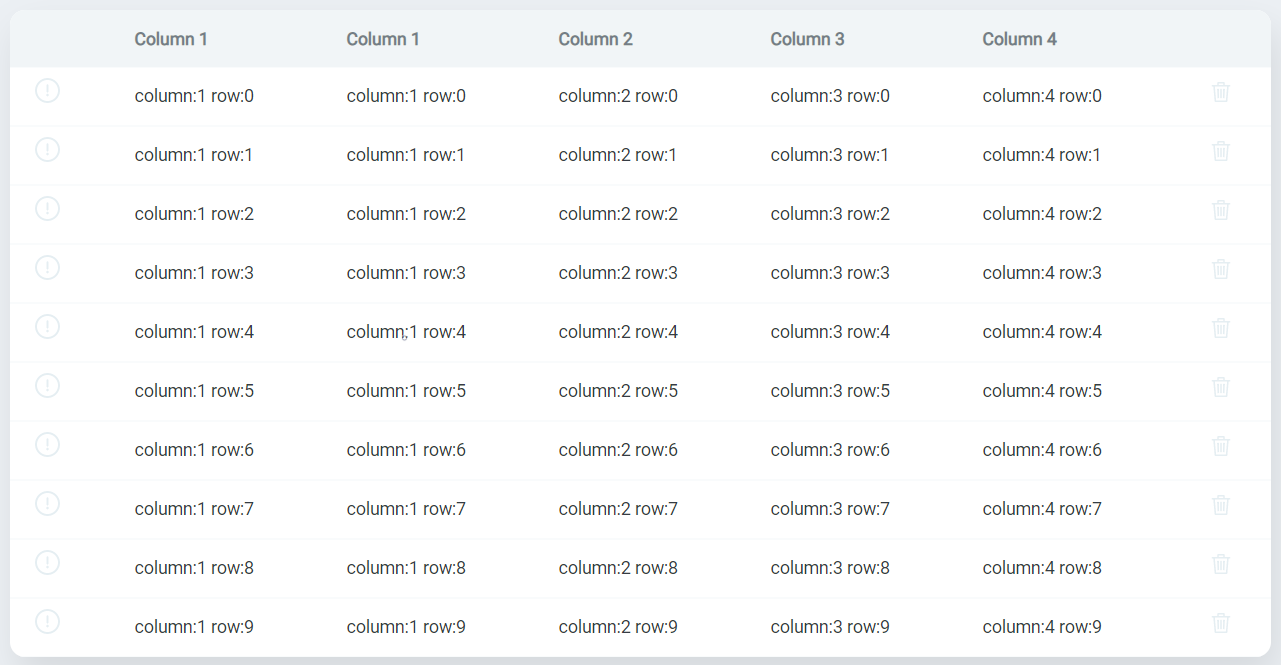
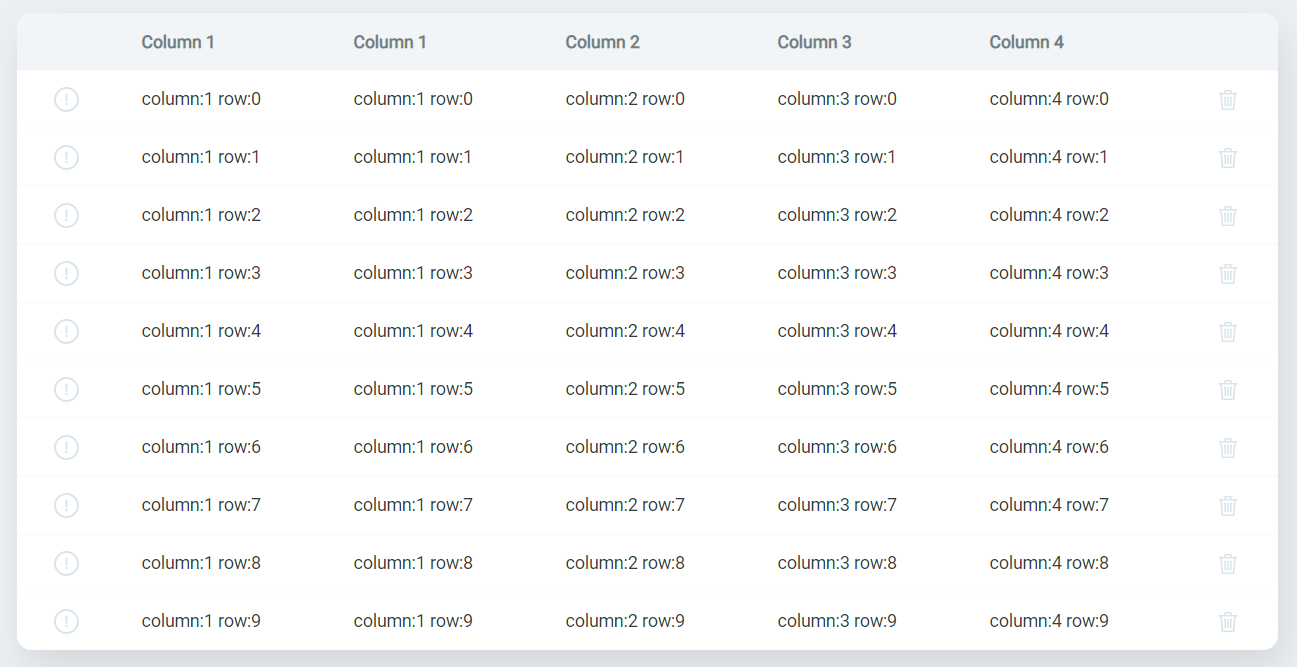
Update command-column styles and readme screenshot

diff --git a/src/Demos/CommandColumnDemo/CommandColumnDemo.tsx b/src/Demos/CommandColumnDemo/CommandColumnDemo.tsx
@@ -23,14 +23,12 @@ const AlertCell: React.FC<CellFuncPropsWithChildren> = ({
    rowData,
 }) => {
   return (
-    <div>
-      <img
-        src='static/icons/alert.svg'
-        className='button'
-        alt=''
-        onClick={() => alert(`Row data: \r\n${JSON.stringify(rowData)}`)}
-      />
-    </div>
+    <img
+      src='static/icons/alert.svg'
+      className='command-column-button'
+      alt=''
+      onClick={() => alert(`Row data: \r\n${JSON.stringify(rowData)}`)}
+    />
   );
 };
 
@@ -38,14 +36,12 @@ const DeleteRow: React.FC<CellFuncPropsWithChildren> = ({
   rowData, dispatch,
 }) => {
  return (
-   <div>
-      <img
-        src='static/icons/delete.svg'
-        className='button'
-        onClick={() => dispatch(DELETE_ACTION, { rowData })}
-        alt=''
-      />
-   </div>
+    <img
+      src='static/icons/delete.svg'
+      className='command-column-button'
+      onClick={() => dispatch(DELETE_ACTION, { rowData })}
+      alt=''
+    />
  );
 };
 

diff --git a/src/Demos/CommandColumnDemo/CommandColumnDemo.scss b/src/Demos/CommandColumnDemo/CommandColumnDemo.scss
@@ -1,6 +1,8 @@
-.button {
+.command-column-button {
   cursor: pointer;
   opacity: 0.75;
+  display: inline-block;
+  vertical-align: middle;
   &:hover{
     opacity: 1;
   }
